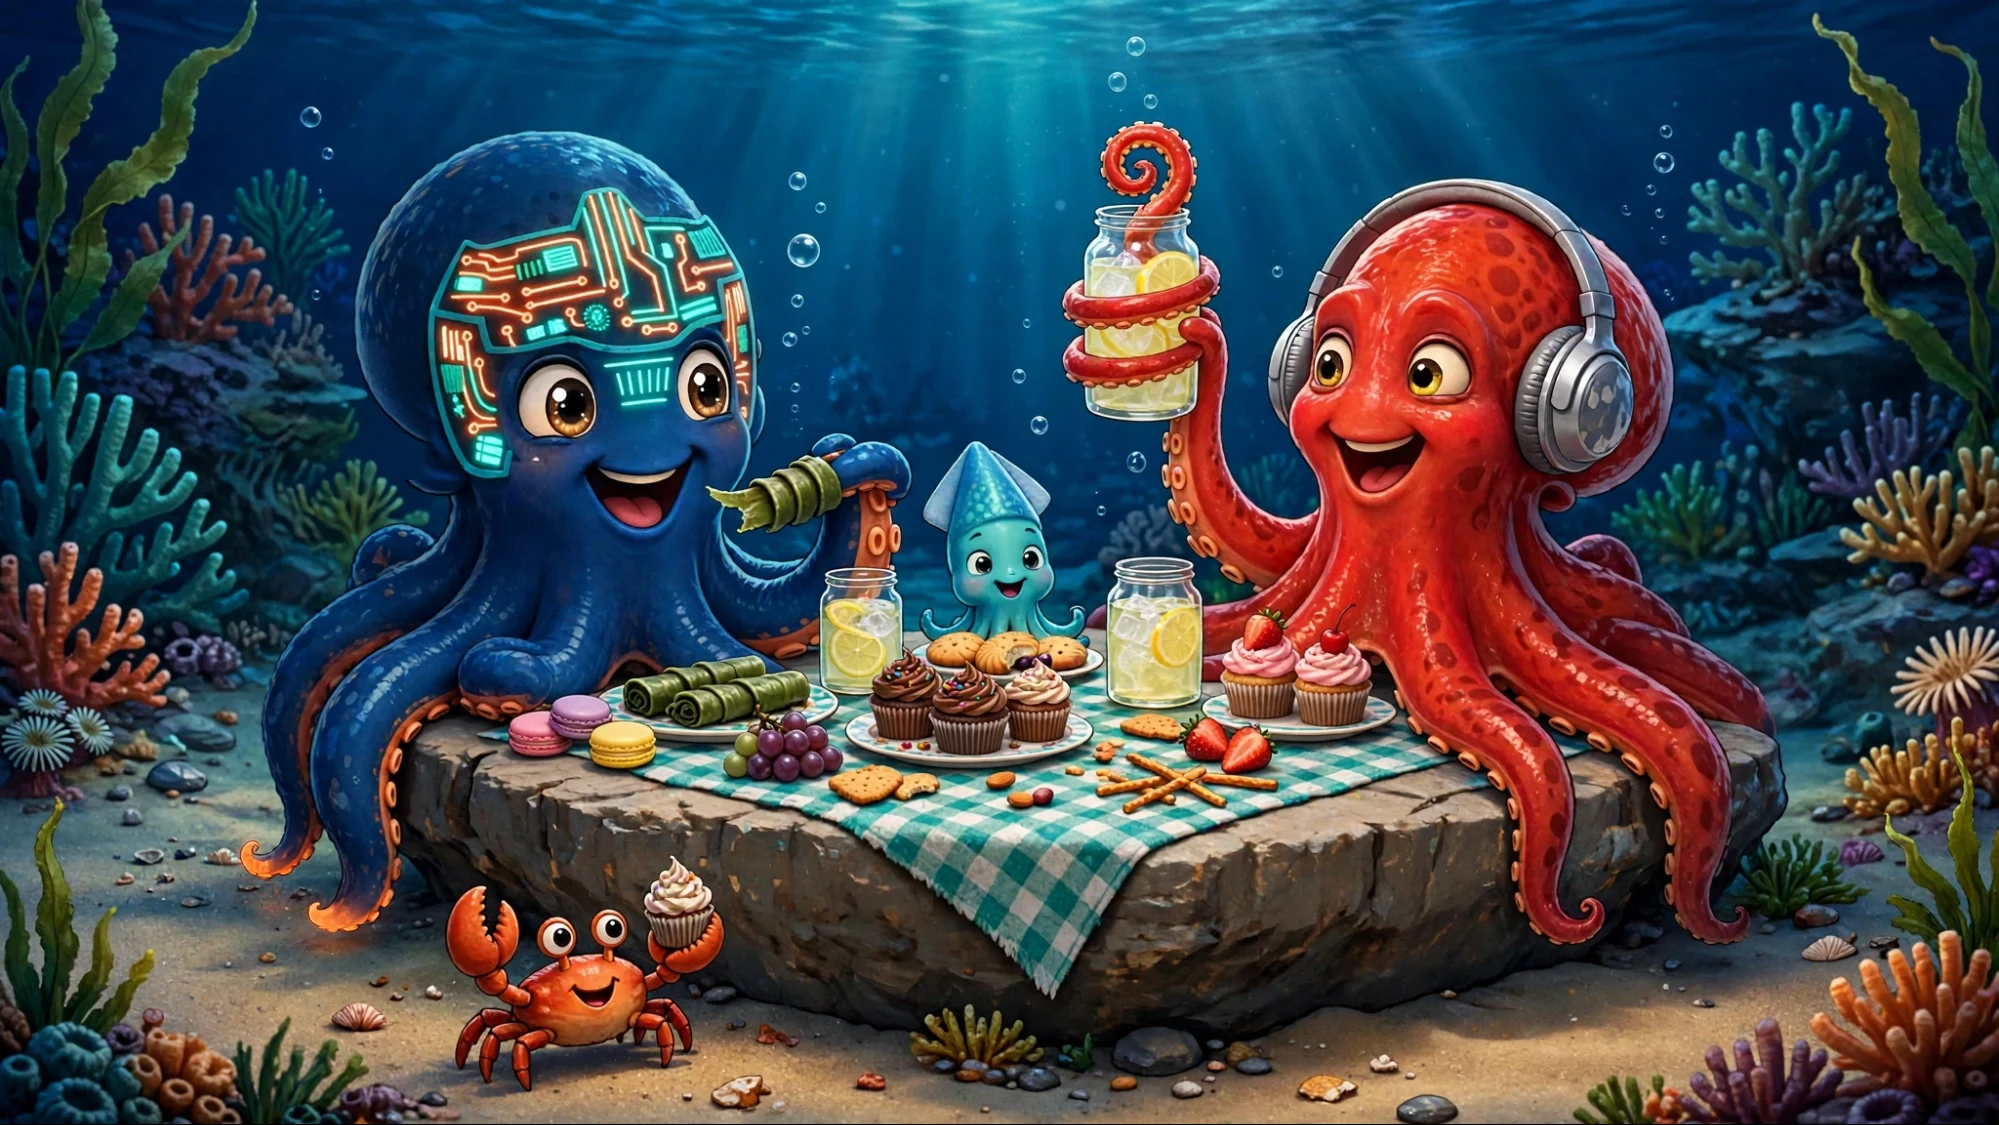
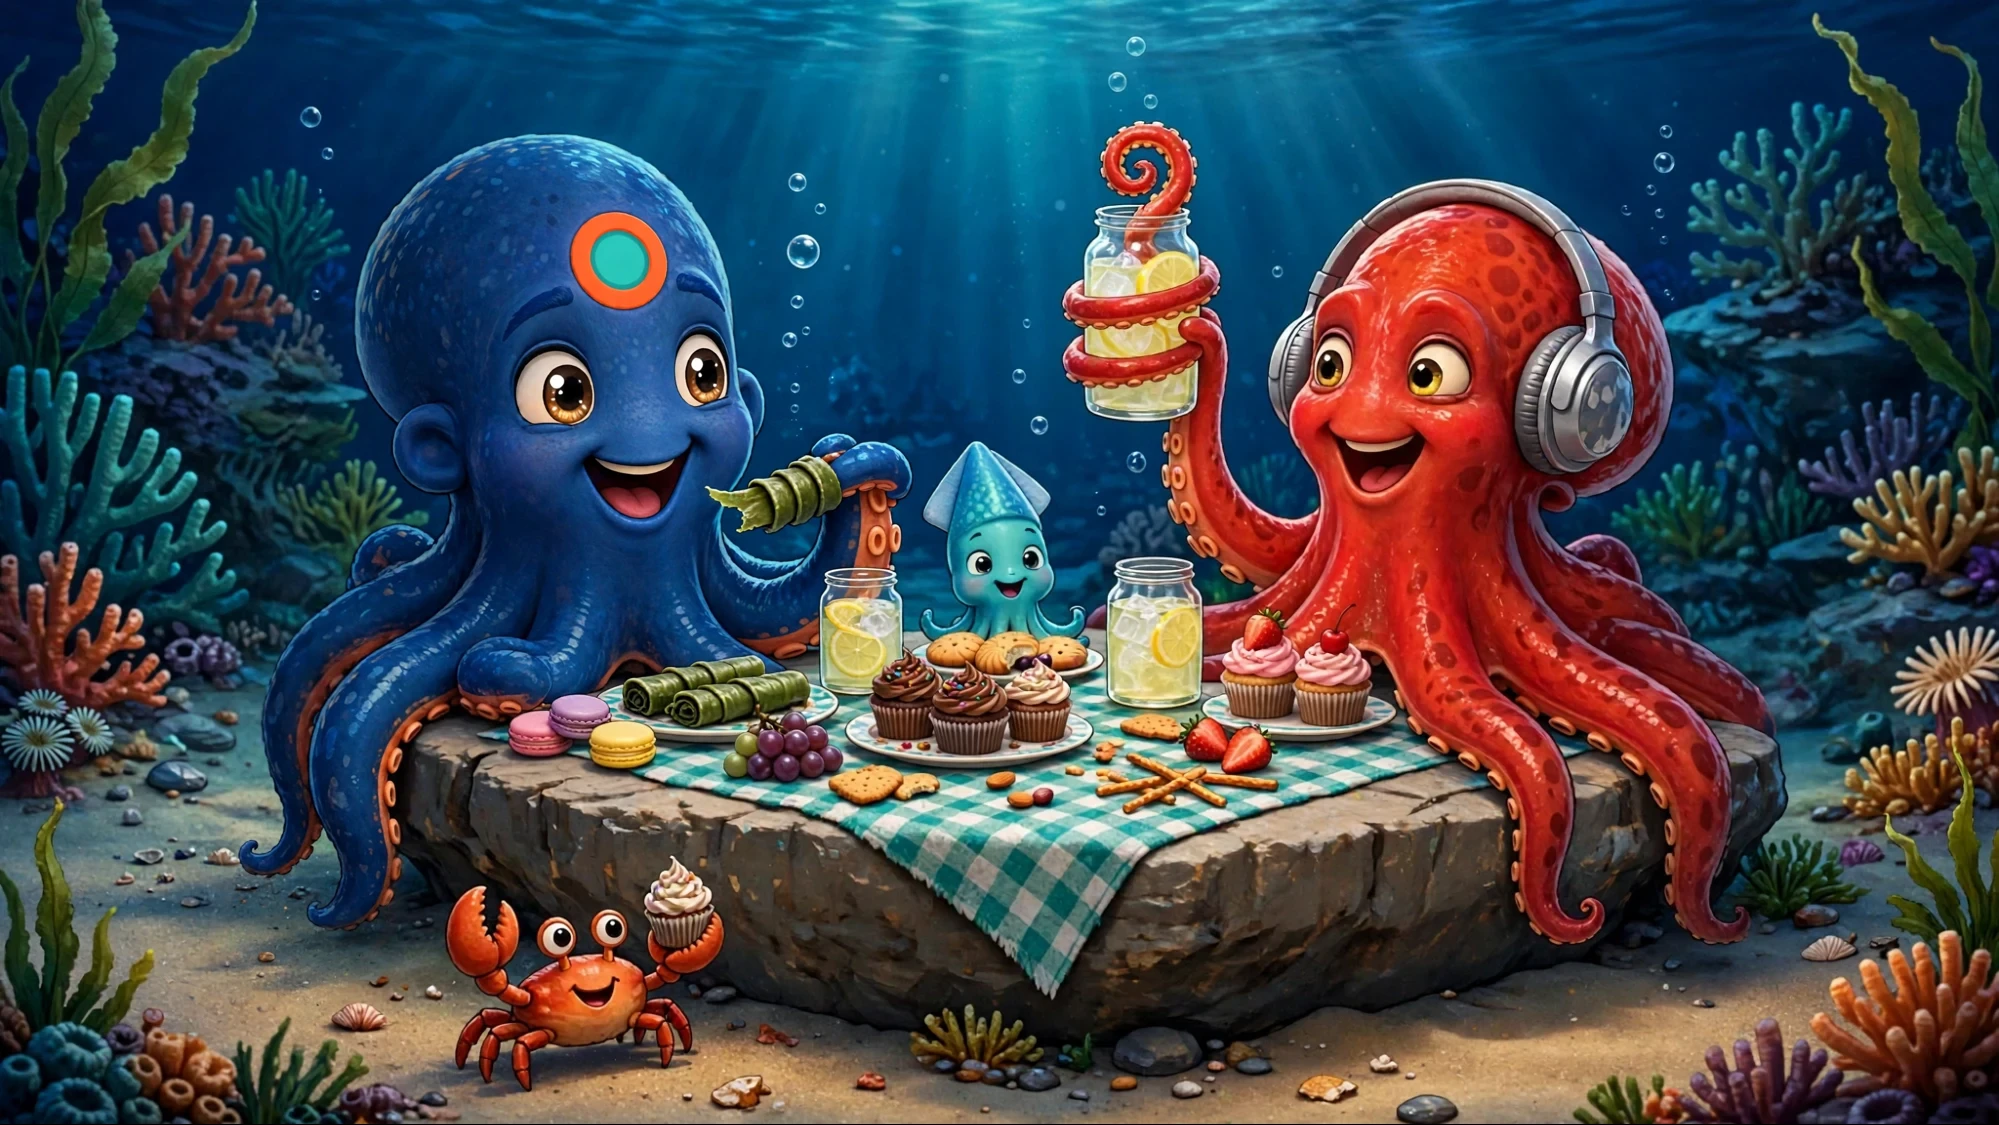
Rio page: picnic chapter — Rio replaced with the new design in the same pose (Meta AI scene otherwise untouched); artwork note picnic clause updated

diff --git a/rio/index.html b/rio/index.html
@@ -111,7 +111,7 @@
 
     <div class="ns-story">
       <h2 style="font-size:clamp(1.4rem,3vw,1.8rem);letter-spacing:-.02em;margin:0 0 .5rem">A note on the artwork</h2>
-      <p>Rio the character was created with Meta AI, refined through several versions before this design was chosen. The illustrations on this page were generated with Muse in Honed Signal's storybook style — three are the exceptions — the picnic and movie night began as Meta AI illustrations and were cleaned up with Muse, the carnival began as a Meta AI illustration too, with this seahorse version supplied via ChatGPT and its games sign corrected with Muse. All of it is AI-generated — and every image was selected and approved by a human.</p>
+      <p>Rio the character was created with Meta AI, refined through several versions before this design was chosen. The illustrations on this page were generated with Muse in Honed Signal's storybook style — three are the exceptions — the picnic began as a Meta AI illustration, cleaned up with Muse, and Rio in it has since been redrawn in his new design with Muse; movie night began as a Meta AI illustration and was cleaned up with Muse; the carnival began as a Meta AI illustration too, with this seahorse version supplied via ChatGPT and its games sign corrected with Muse. All of it is AI-generated — and every image was selected and approved by a human.</p>
     </div>
   </main>
 
